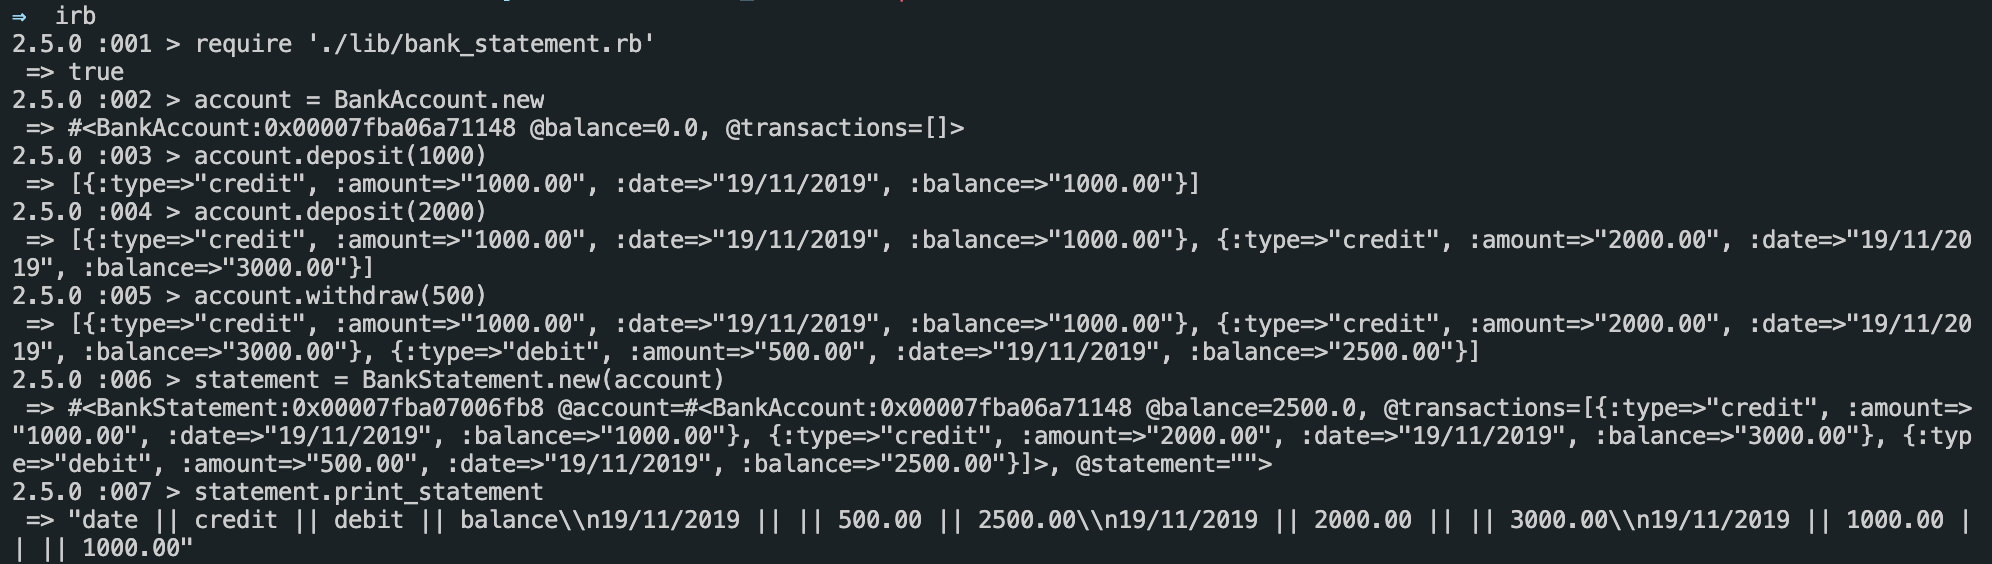
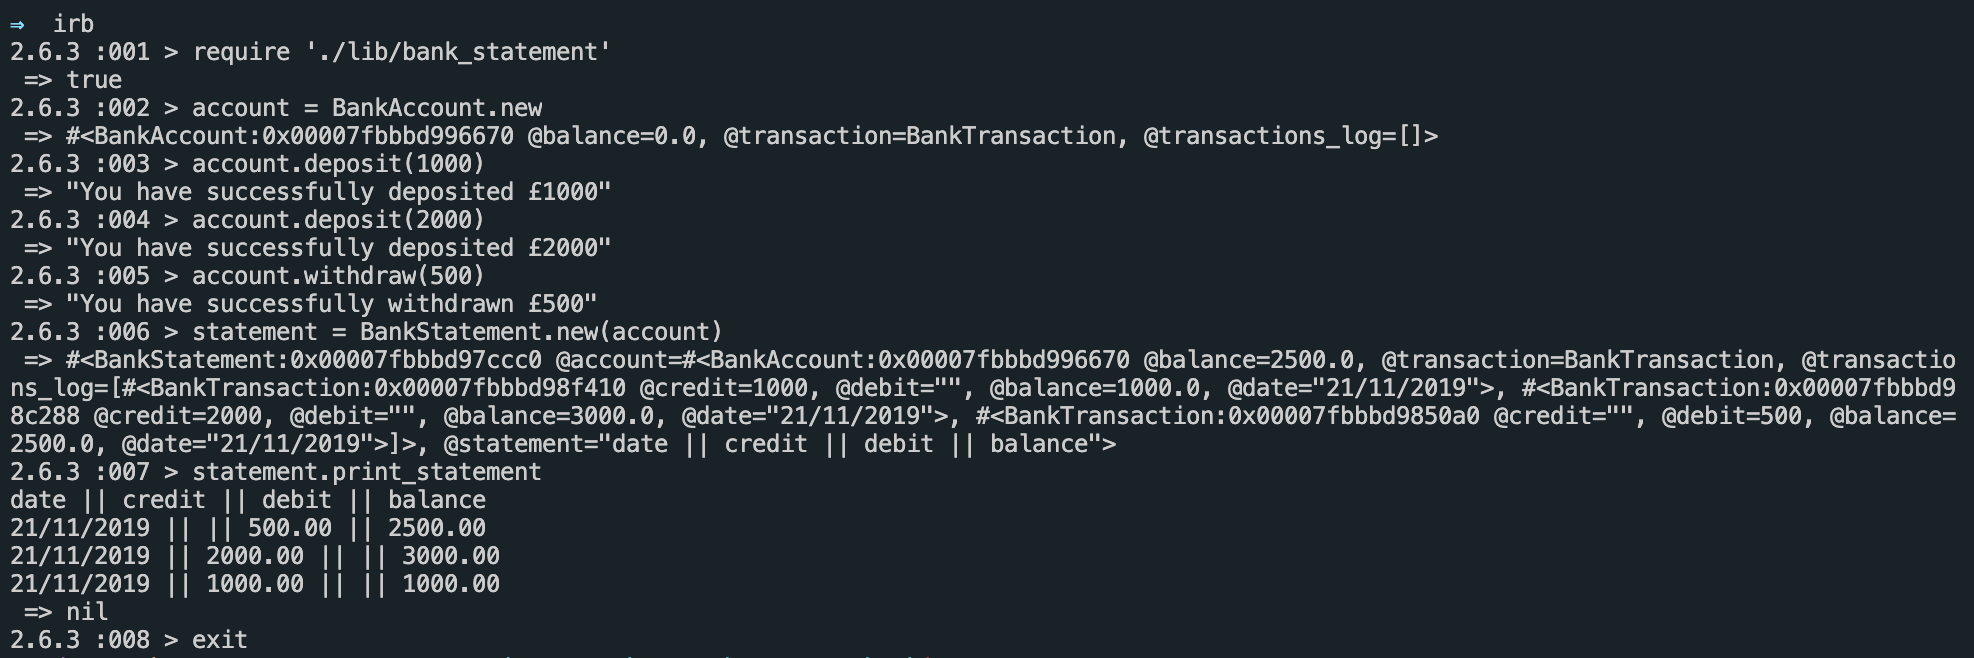
Edit command line output to instead print out the statement as per req. Change some tests to test behaviour.

Changed region(s): [[0.0, 0.0, 1.0, 0.9947]]

diff --git a/spec/bank_account_spec.rb b/spec/bank_account_spec.rb
@@ -4,58 +4,65 @@ require 'date'
 
 describe BankAccount do
 
+  let(:account) { described_class.new }
+
   describe 'initialize' do
     it 'defaults to 0 when a new bank account is created' do
-      expect(subject.balance).to eq 0
+      expect(account.balance).to eq 0
     end
   end
 
   context 'depositing money to account' do
     describe '#deposit' do
       it 'increases current balance' do
-        subject.deposit(1000)
-        expect(subject.balance).to eq 1000.00
+        amount = 1000
+        expect { account.deposit(amount) }.to change { account.balance }.by(amount)
       end
 
       it 'records the type of transaction as debit' do
-        subject.deposit(1000)
-        expect(subject.transactions_log.first.type).to eq 'credit'
+        account.deposit(1000)
+        expect(account.transactions_log.first.credit).to eq 1000.00
       end
 
       it 'records the date of transaction' do
-        subject.deposit(1000)
-        expect(subject.transactions_log.first.date).to eq DateTime.now.strftime('%d/%m/%Y')
+        account.deposit(1000)
+        expect(account.transactions_log.first.date).to eq DateTime.now.strftime('%d/%m/%Y')
       end
 
       it 'records the current balance after transaction' do
-        subject.deposit(1000)
-        expect(subject.transactions_log.first.balance).to eq 1000.00
+        account.deposit(1000)
+        expect(account.transactions_log.first.balance).to eq 1000.00
       end
     end
   end
 
   context 'withdrawing money from account' do
     describe '#withdraw' do
-      it 'records the current balance after transaction' do
-        expect(subject.withdraw(500)).to include 'Insufficient balance'
+      it 'error message if amount > balance' do
+        expect(account.withdraw(500)).to include 'Insufficient balance'
+      end
+
+      it 'money not withdrawn if amount > balance' do
+        account.deposit(100)
+        expect{account.withdraw(500)}.to change {account.balance}.by(0)
       end
 
       it 'reduces current balance' do
-        subject.deposit(1000)
-        subject.withdraw(500)
-        expect(subject.balance).to eq 500.00
+        account.deposit(1000)
+        withdrawal = 500
+        expect { account.withdraw(withdrawal) }.to change { account.balance }.by(-withdrawal)
       end
 
       it 'records the type of transaction as credit' do
-        subject.deposit(1000)
-        subject.withdraw(500)
-        expect(subject.transactions_log.last.type).to eq 'debit'
+        account.deposit(1000)
+        account.withdraw(500)
+        expect(account.transactions_log.last.debit).to eq 500.00
       end
 
       it 'records the date of transaction' do
-        subject.deposit(1000)
-        subject.withdraw(500)
-        expect(subject.transactions_log.last.date).to eq DateTime.now.strftime('%d/%m/%Y')
+        account.deposit(1000)
+        account.withdraw(500)
+        expect(account.transactions_log.last.date).to eq DateTime.now.strftime('%d/%m/%Y')
       end
     end
   end

diff --git a/spec/bank_statement_spec.rb b/spec/bank_statement_spec.rb
@@ -6,27 +6,27 @@ require 'date'
 describe BankStatement do  
   describe '#print_statement' do
     context 'single transaction' do
-      let(:account) { double('account', transactions_log: [{ type: 'credit', amount: '1000.00', date: DateTime.now.strftime('%d/%m/%Y'), balance: '1000.00' }]) }
+
+      let(:transaction1) { double('transaction', debit: false, credit: 1000, date: "21/11/2019", balance: 1000 ) }
+      let(:account) { double('account', transactions_log: [transaction1]) }
       let(:statement) { BankStatement.new(account) }
 
-      it "returns 'date || credit || debit || balance'" do
-        expect(statement.print_statement).to include('date || credit || debit || balance')
-      end
-
       it 'returns the statement for one deposit of 1000' do
-        expect(statement.print_statement).to eq('date || credit || debit || balance\n' + DateTime.now.strftime('%d/%m/%Y') + ' || 1000.00 || || 1000.00')
+        message = "date || credit || debit || balance\n21/11/2019 || 1000.00 || || 1000.00 \n"
+        expect{statement.print_statement}.to output(message).to_stdout
       end    
     end
 
     context 'two transactions recorded on statement in reverse' do
-      let(:account2) { double('account', transactions_log: [{ type: 'credit', amount: '1000.00', date: DateTime.now.strftime('%d/%m/%Y'), balance: '1000.00' }, { type: 'debit', amount: '500.00', date: DateTime.now.strftime('%d/%m/%Y'), balance: '500.00' }]) }
+      let(:transaction1) { double('transaction', debit: false, credit: 1000, date: "21/11/2019", balance: 1000 ) }
+      let(:transaction2) { double('transaction2', credit: false, debit: 500, date: "22/11/2019", balance: 500 ) }
+      let(:account2) { double('account', transactions_log: [transaction1, transaction2]) }
       let(:statement2) { BankStatement.new(account2) }
 
       it 'returns the statement for one deposit of 1000 and withdrawal of 500' do
-        expect(statement2.print_statement).to eq('date || credit || debit || balance\n' +
-                                                  DateTime.now.strftime('%d/%m/%Y') + ' || || 500.00 || 500.00\n' +
-                                                  DateTime.now.strftime('%d/%m/%Y') + ' || 1000.00 || || 1000.00'
-                                                )
+        message = "date || credit || debit || balance\n22/11/2019 || || 500.00 || 500.00 \n21/11/2019 || 1000.00 || || 1000.00 \n"
+
+        expect{statement2.print_statement}.to output(message).to_stdout
       end
     end
   end

diff --git a/lib/bank_statement.rb b/lib/bank_statement.rb
@@ -1,3 +1,4 @@
+
 require_relative 'bank_account'
 
 class BankStatement
@@ -9,25 +10,24 @@ class BankStatement
   end
 
   def print_statement
-    @account.transactions_log.reverse.each do |transaction|
-      list_each_transaction(transaction)
+    @account.transactions_log.reverse.each do |t|
+      list_each_transaction(t)
     end
-    return @statement
+    puts @statement
   end
 
   private
 
   attr_accessor :statement
 
-  def format_two_decimal(num)
-    ('%.2f' % num).to_s
+  def format(num)
+    (('%.2f' % num).to_s+" ") if num.is_a?(Numeric)
   end
 
-  def list_each_transaction(transaction)
-    if transaction[:type] == 'credit'
-      @statement << "\\n#{transaction[:date]} || #{format_two_decimal(transaction[:amount])} || || #{format_two_decimal(transaction[:balance])}"
-    else
-      @statement << "\\n#{transaction[:date]} || || #{format_two_decimal(transaction[:amount])} || #{format_two_decimal(transaction[:balance])}"
-    end
+  def list_each_transaction(t)
+    
+    @statement << "\n#{t.date} || #{format(t.credit)}|| #{format(t.debit)}|| #{format(t.balance)}"
   end
 end
+
+

diff --git a/lib/bank_account.rb b/lib/bank_account.rb
@@ -1,4 +1,5 @@
 # frozen_string_literal: true
+
 require 'date'
 require_relative 'bank_transaction'
 
@@ -14,14 +15,16 @@ class BankAccount
 
   def deposit(money)
     debit_to_account(money)
-    add_transaction_to_log(@transaction.new(type: 'credit', amount: money, balance: balance))
+    add_transaction_to_log(@transaction.new(debit: '', credit: money, balance: balance))
+    return "You have successfully deposited £#{money}"
   end
 
   def withdraw(money)
     return "Insufficient balance. Only #{@balance} left in your account." if insufficient_balance?(money)
 
     credit_to_account(money)
-    add_transaction_to_log(@transaction.new(type: 'debit', amount: money, balance: balance))
+    add_transaction_to_log(@transaction.new(credit: '', debit: money, balance: balance))
+    return "You have successfully withdrawn £#{money}"
   end
 
   private

diff --git a/lib/bank_transaction.rb b/lib/bank_transaction.rb
@@ -3,10 +3,10 @@
 require 'date'
 
 class BankTransaction
-  attr_reader :date, :type, :balance, :amount  
-  def initialize(type:, amount:, balance:, date: DateTime.now.strftime('%d/%m/%Y'))
-    @type = type
-    @amount = amount
+  attr_reader :date, :credit, :debit, :balance 
+  def initialize(credit:, debit:, balance:, date: DateTime.now.strftime('%d/%m/%Y'))
+    @credit = credit
+    @debit = debit
     @balance = balance
     @date = date
   end

diff --git a/spec/bank_transaction_spec.rb b/spec/bank_transaction_spec.rb
@@ -6,7 +6,7 @@ require 'date'
 describe BankTransaction do  
   describe 'date' do
     it "a transaction will default to today's date" do
-      transaction = BankTransaction.new(type: 'credit', amount: 500, balance: 1000)
+      transaction = BankTransaction.new(debit: '', credit: 500, balance: 1000)
       expect(transaction.date).to eq DateTime.now.strftime('%d/%m/%Y')
     end
   end

diff --git a/README.md b/README.md
@@ -4,13 +4,12 @@ This program interacts with the command line, taking an input of a deposit or wi
 The account statement consists of the date, amount and balance.
 
 ### Approach
-Build two classes: one to print the bank statement for any account and another class to record the transactions made in an account. This approach was used to stick to the single responsibility principle. 
+
+First, developed the user stories from the list of requirements given and the acceptance criteria. After this, I noted down what the inputs and user outputs would be.
+
+I then built two classes: one to print the bank statement for any account and another class to record the transactions made in an account. This approach was initially used to stick to the single responsibility principle, but I then found that the bank account class had two responsibilities: dealing with updating the account after deposits/withdrawals and recording the transaction. Therefore I created a third class, BankTransactions, to deal with recording each individual transaction.
 
 The hard dependencies between the classes was removed using dependency injection.
-
-### Screenshot of running app
-![Screenshot](https://github.com/Mezela/bank/tree/master/img/bank_app_screenshot.png)
-
 
 ### Next steps
 - Add additional class for recording transactions
@@ -36,11 +35,11 @@ $ cd path/to/bank/repo
 $ rspec
 ```
 ## Requirements
+
 - You should be able to interact with your code via a REPL like IRB or the JavaScript console. (You don't need to implement a command line interface that takes input from STDIN.)
 - Deposits, withdrawal
 - Account statement (date, amount, balance) printing.
 - Data can be kept in memory (it doesn't need to be stored to a database or anything).
-
 
 ## Acceptance criteria
 
@@ -55,25 +54,31 @@ date || credit || debit || balance
 13/01/2012 || 2000.00 || || 3000.00
 10/01/2012 || 1000.00 || || 1000.00
 ```
-![Screenshot](https://github.com/Mezela/bank/tree/master/img/bank_acceptance_criteria_screenshot.png)
+![Screenshot of running app](https://github.com/Mezela/bank/blob/master/img/bank_acceptance_criteria_screenshot.png "Screenshot of the app running")
 
 ## User stories
 ```
 As a user
 So that I can save my money,
-I would like to make a deposit to my bank account
+I would like to make a deposit to my bank account.
 ```
 
 ```
 As a user
 So that I can spend my money,
-I would like to make a withdrawal to my bank account
+I would like to make a withdrawal to my bank account.
 ```
 
 ```
 As a user
 So that I can decide keep track of my account usage,
-I would like to be able to see my latest bank statement including date, type and amount of transaction and balance (in reverse order by date)
+I would like to be able to see my latest bank statement including date, type (credit or debit) and amount for each transaction and the balance after the transaction is complete (in reverse order by date).
+```
+
+```
+As a user
+So that I can decide keep track of my account usage,
+I would like to be able to see my latest bank transactions printed in reverse chronological order.
 ```
 
 ### Edge cases
@@ -94,7 +99,7 @@ date || credit || debit || balance
 10/01/2012 || 1000.00 || || 1000.00
 ```
 
-## Technologies
+## Technologies used
 - Ruby 
 - Rspec
 - Simplecov
